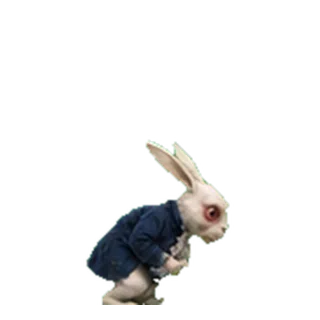
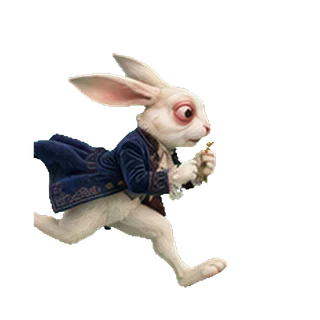
Финальные кадры кролика: очищенные кадры из 45-кадровой раскадровки, сцены по шагам раскадровки, ноги кролика на линии дорожки и дыры

Changed region(s): [[0.0938, 0.1562, 0.7188, 0.9688]]

diff --git a/frontend/tests/rabbit.spec.ts b/frontend/tests/rabbit.spec.ts
@@ -6,7 +6,7 @@ import LoginRabbit from "../src/components/login/LoginRabbit.vue";
 import { FILL_MS, nextPhase } from "../src/components/login/rabbitPlot";
 import RabbitSprite from "../src/components/rabbit/RabbitSprite.vue";
 import { frameUrl } from "../src/rabbit/frames";
-import { SCENES, frameAt, sceneEnded, sceneLength, type SceneName } from "../src/rabbit/scenes";
+import { SCENES, frameAt, sceneEnded, sceneFrames, sceneLength, type SceneName } from "../src/rabbit/scenes";
 import { routeFetch } from "./helpers";
 import { me } from "./people";
 
@@ -50,16 +50,17 @@ afterEach(() => {
 });
 
 describe("rabbit scenes", () => {
-  it("holds each frame for its number of ticks", () => {
-    const scene = { holds: [2, 1, 3], loop: false };
+  it("holds each frame for its number of ticks and may return to an earlier frame", () => {
+    const scene = { steps: [[1, 2], [2, 1], [3, 3], [1, 2]] as [number, number][], loop: false };
 
-    expect([0, 1, 2, 3, 5, 9].map((tick) => frameAt(scene, tick))).toEqual([1, 1, 2, 3, 3, 3]);
-    expect(sceneLength(scene)).toBe(6);
-    expect([sceneEnded(scene, 5), sceneEnded(scene, 6)]).toEqual([false, true]);
+    expect([0, 1, 2, 3, 5, 6, 7, 20].map((tick) => frameAt(scene, tick))).toEqual([1, 1, 2, 3, 3, 1, 1, 1]);
+    expect(sceneLength(scene)).toBe(8);
+    expect(sceneFrames(scene)).toEqual([1, 2, 3]);
+    expect([sceneEnded(scene, 7), sceneEnded(scene, 8)]).toEqual([false, true]);
   });
 
   it("wraps looping scenes and never ends them", () => {
-    const scene = { holds: [2, 2], loop: true };
+    const scene = { steps: [[1, 2], [2, 2]] as [number, number][], loop: true };
 
     expect([0, 3, 4, 7].map((tick) => frameAt(scene, tick))).toEqual([1, 2, 1, 2]);
     expect(sceneEnded(scene, 100)).toBe(false);
@@ -67,7 +68,7 @@ describe("rabbit scenes", () => {
 
   it("has a picture for every frame of every scene", () => {
     for (const [name, scene] of Object.entries(SCENES)) {
-      scene.holds.forEach((_, index) => expect(frameUrl(name as SceneName, index + 1), `${name} ${index + 1}`).not.toBe(""));
+      sceneFrames(scene).forEach((frame) => expect(frameUrl(name as SceneName, frame), `${name} ${frame}`).not.toBe(""));
     }
   });
 });
@@ -89,14 +90,14 @@ describe("RabbitSprite", () => {
     const wrapper = mount(RabbitSprite, { props: { scene: "dive" } });
     const first = wrapper.get("img").attributes("src");
 
-    frames.advance(TICK_MS * SCENES.dive.holds[0] + 40);
+    frames.advance(TICK_MS * SCENES.dive.steps[0][1] + 40);
     await nextTick();
     expect(wrapper.get("img").attributes("src")).not.toBe(first);
 
     frames.advance(TICK_MS * sceneLength(SCENES.dive));
     await nextTick();
     expect(wrapper.emitted("ended")).toEqual([["dive"]]);
-    expect(wrapper.get("img").attributes("src")).toBe(frameUrl("dive", SCENES.dive.holds.length));
+    expect(wrapper.get("img").attributes("src")).toBe(frameUrl("dive", SCENES.dive.steps[SCENES.dive.steps.length - 1][0]));
   });
 
   it("starts over while asked to repeat", () => {
@@ -142,6 +143,8 @@ describe("LoginRabbit", () => {
     await vi.advanceTimersByTimeAsync(450);
     expect(shown(wrapper)).toBe("dive");
     await end(wrapper);
+    expect(wrapper.emitted("fill")).toBeUndefined();
+    await vi.advanceTimersByTimeAsync(450);
 
     expect(wrapper.emitted("fill")).toHaveLength(1);
     expect(wrapper.emitted("done")).toBeUndefined();

diff --git a/frontend/src/components/login/LoginRabbit.vue b/frontend/src/components/login/LoginRabbit.vue
@@ -1,6 +1,6 @@
 <script setup lang="ts">
 import { computed, onBeforeUnmount, onMounted, ref } from "vue";
-import { FRAMES_PER_SECOND, SCENES, sceneLength } from "../../rabbit/scenes";
+import { FEET_LINE } from "../../rabbit/scenes";
 import RabbitHole from "../rabbit/RabbitHole.vue";
 import RabbitSprite from "../rabbit/RabbitSprite.vue";
 import { FILL_MS, PHASE_SCENE, nextPhase, type Outcome, type Phase } from "./rabbitPlot";
@@ -16,9 +16,8 @@ const HOLE_MARGIN = 70;
 const SPEED = 1.8;
 const APPEAR_MS = 220;
 const RUN_MS = 420;
-const MS_PER_SECOND = 1000;
-const DIVE_MS = (sceneLength(SCENES.dive) / (FRAMES_PER_SECOND * SPEED)) * MS_PER_SECOND;
-const TIMED: Partial<Record<Phase, number>> = { appear: APPEAR_MS, run: RUN_MS, fill: FILL_MS };
+const DIVE_MS = 420;
+const TIMED: Partial<Record<Phase, number>> = { appear: APPEAR_MS, run: RUN_MS, dive: DIVE_MS, fill: FILL_MS };
 
 const props = defineProps<{ outcome: Outcome }>();
 const emit = defineEmits<{ fill: [center: Point]; done: [] }>();
@@ -34,7 +33,7 @@ const travelled = computed(() => ["run", "dive", "fill"].includes(phase.value));
 const dived = computed(() => ["dive", "fill"].includes(phase.value));
 const holeOpen = computed(() => ["start", "run", "dive", "fill"].includes(phase.value));
 
-const sizes = { "--size": `${RABBIT_SIZE}px`, "--appear": `${APPEAR_MS}ms` };
+const sizes = { "--size": `${RABBIT_SIZE}px`, "--appear": `${APPEAR_MS}ms`, "--sink": `${(1 - FEET_LINE) * RABBIT_SIZE}px` };
 const holeStyle = computed(() => ({ left: `${holeOffset.value}px` }));
 const body = computed(() => ({
   transform: `translate(${travelled.value ? holeOffset.value : 0}px, ${dived.value ? RABBIT_SIZE : 0}px)`,
@@ -62,6 +61,12 @@ function advance(): void {
   schedule();
 }
 
+function sceneEnded(): void {
+  if (TIMED[phase.value] === undefined) {
+    advance();
+  }
+}
+
 function schedule(): void {
   const wait = TIMED[phase.value];
   if (wait !== undefined) {
@@ -82,7 +87,7 @@ onBeforeUnmount(() => window.clearTimeout(timer));
     <RabbitHole ref="hole" class="login-rabbit__hole" :open="holeOpen" :style="holeStyle" />
     <div class="login-rabbit__box">
       <div class="login-rabbit__body" :class="{ 'login-rabbit__body--appear': phase === 'appear' }" :style="body">
-        <RabbitSprite v-if="scene" :scene="scene" :speed="SPEED" :repeat="phase === 'tap' && outcome === 'pending'" @ended="advance" />
+        <RabbitSprite v-if="scene" :scene="scene" :speed="SPEED" :repeat="phase === 'tap' && outcome === 'pending'" @ended="sceneEnded" />
       </div>
     </div>
   </div>
@@ -96,11 +101,11 @@ onBeforeUnmount(() => window.clearTimeout(timer));
 
 .login-rabbit__box {
   position: absolute;
-  bottom: 0;
+  bottom: calc(var(--sink) * -1);
   left: calc(var(--size) / -2);
   width: var(--size);
   height: var(--size);
-  clip-path: inset(-100vh -100vw 0 -100vw);
+  clip-path: inset(-100vh -100vw var(--sink) -100vw);
 }
 
 .login-rabbit__body {

diff --git a/frontend/src/rabbit/scenes.ts b/frontend/src/rabbit/scenes.ts
@@ -1,23 +1,30 @@
 export type SceneName = "tap" | "start" | "run" | "dive" | "no" | "ontime";
 
+export type Step = [frame: number, ticks: number];
+
 export interface Scene {
-  holds: number[];
+  steps: Step[];
   loop: boolean;
 }
 
 export const FRAMES_PER_SECOND = 24;
+export const FEET_LINE = 0.88;
 
 export const SCENES: Record<SceneName, Scene> = {
-  tap: { holds: [6, 3, 3, 3, 3, 6, 6, 6], loop: false },
-  start: { holds: [3, 3, 3, 3, 3, 3], loop: false },
-  run: { holds: [3, 3, 2, 3, 3, 2], loop: true },
-  dive: { holds: [3, 3, 3, 3, 3, 3], loop: false },
-  no: { holds: [3, 3, 3, 6, 6, 9], loop: false },
-  ontime: { holds: [3, 5, 6, 4, 4, 14], loop: false },
+  tap: { steps: [[1, 6], [2, 3], [3, 3], [4, 3], [5, 3], [6, 6], [1, 12]], loop: false },
+  start: { steps: [[1, 3], [2, 3], [3, 3]], loop: false },
+  run: { steps: [[1, 2], [2, 2], [3, 2], [4, 2], [5, 2], [6, 2], [7, 2], [8, 2]], loop: true },
+  dive: { steps: [[1, 3], [2, 3]], loop: false },
+  no: { steps: [[1, 3], [2, 3], [3, 3], [4, 12]], loop: false },
+  ontime: { steps: [[1, 5], [2, 6], [3, 6], [4, 4], [5, 8]], loop: false },
 };
 
 export function sceneLength(scene: Scene): number {
-  return scene.holds.reduce((total, hold) => total + hold, 0);
+  return scene.steps.reduce((total, [, ticks]) => total + ticks, 0);
+}
+
+export function sceneFrames(scene: Scene): number[] {
+  return [...new Set(scene.steps.map(([frame]) => frame))];
 }
 
 export function sceneEnded(scene: Scene, tick: number): boolean {
@@ -27,11 +34,11 @@ export function sceneEnded(scene: Scene, tick: number): boolean {
 export function frameAt(scene: Scene, tick: number): number {
   const length = sceneLength(scene);
   let rest = scene.loop ? tick % length : Math.min(tick, length - 1);
-  for (const [index, hold] of scene.holds.entries()) {
-    if (rest < hold) {
-      return index + 1;
+  for (const [frame, ticks] of scene.steps) {
+    if (rest < ticks) {
+      return frame;
     }
-    rest -= hold;
+    rest -= ticks;
   }
-  return scene.holds.length;
+  return scene.steps[scene.steps.length - 1][0];
 }

diff --git a/frontend/src/components/lunch/LunchRabbit.vue b/frontend/src/components/lunch/LunchRabbit.vue
@@ -1,6 +1,6 @@
 <script setup lang="ts">
 import { computed, onBeforeUnmount, onMounted, ref, watch } from "vue";
-import type { SceneName } from "../../rabbit/scenes";
+import { FEET_LINE, type SceneName } from "../../rabbit/scenes";
 import RabbitHole from "../rabbit/RabbitHole.vue";
 import RabbitSprite from "../rabbit/RabbitSprite.vue";
 
@@ -27,6 +27,7 @@ const sizes = {
   "--hole-width": `${HOLE_WIDTH}px`,
   "--appear": `${APPEAR_MS}ms`,
   "--vanish": `${VANISH_MS}ms`,
+  "--sink": `${(1 - FEET_LINE) * RABBIT_SIZE}px`,
 };
 const runner = computed(() => ({ left: `calc((100% - var(--size) - var(--hole-width) / 2) * ${props.progress})` }));
 
@@ -114,7 +115,7 @@ onBeforeUnmount(() => window.clearTimeout(timer));
 
 .lunch-rabbit__runner {
   position: absolute;
-  bottom: 6px;
+  bottom: calc(6px - var(--sink));
   width: var(--size);
   height: var(--size);
   transition: left 1s linear;

diff --git a/frontend/src/rabbit/frames.ts b/frontend/src/rabbit/frames.ts
@@ -1,5 +1,5 @@
 import type { SceneName } from "./scenes";
-import { SCENES } from "./scenes";
+import { SCENES, sceneFrames } from "./scenes";
 
 const FILES = import.meta.glob<string>("./frames/*/*.webp", { eager: true, query: "?url", import: "default" });
 const NUMBER_WIDTH = 2;
@@ -10,8 +10,8 @@ export function frameUrl(scene: SceneName, frame: number): string {
 
 export function preloadScenes(scenes: SceneName[]): void {
   for (const scene of scenes) {
-    SCENES[scene].holds.forEach((_, index) => {
-      new Image().src = frameUrl(scene, index + 1);
+    sceneFrames(SCENES[scene]).forEach((frame) => {
+      new Image().src = frameUrl(scene, frame);
     });
   }
 }
